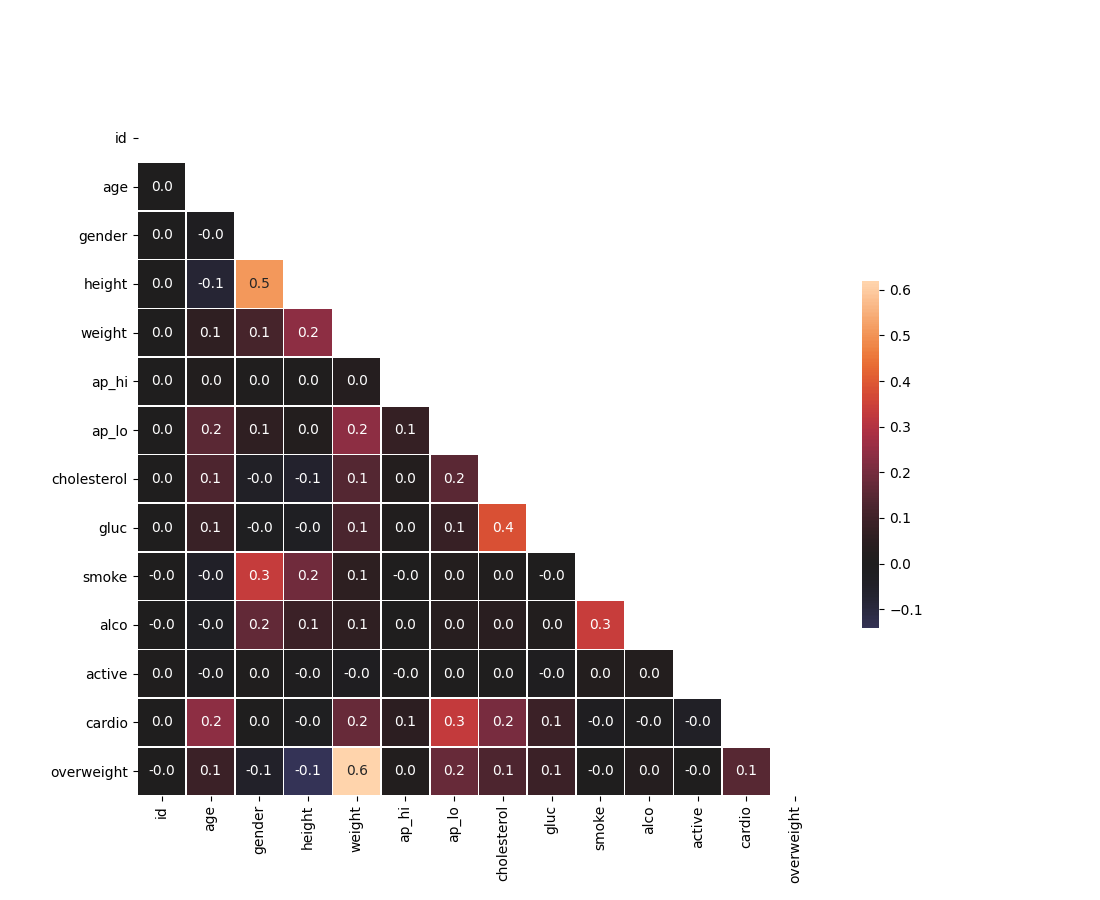
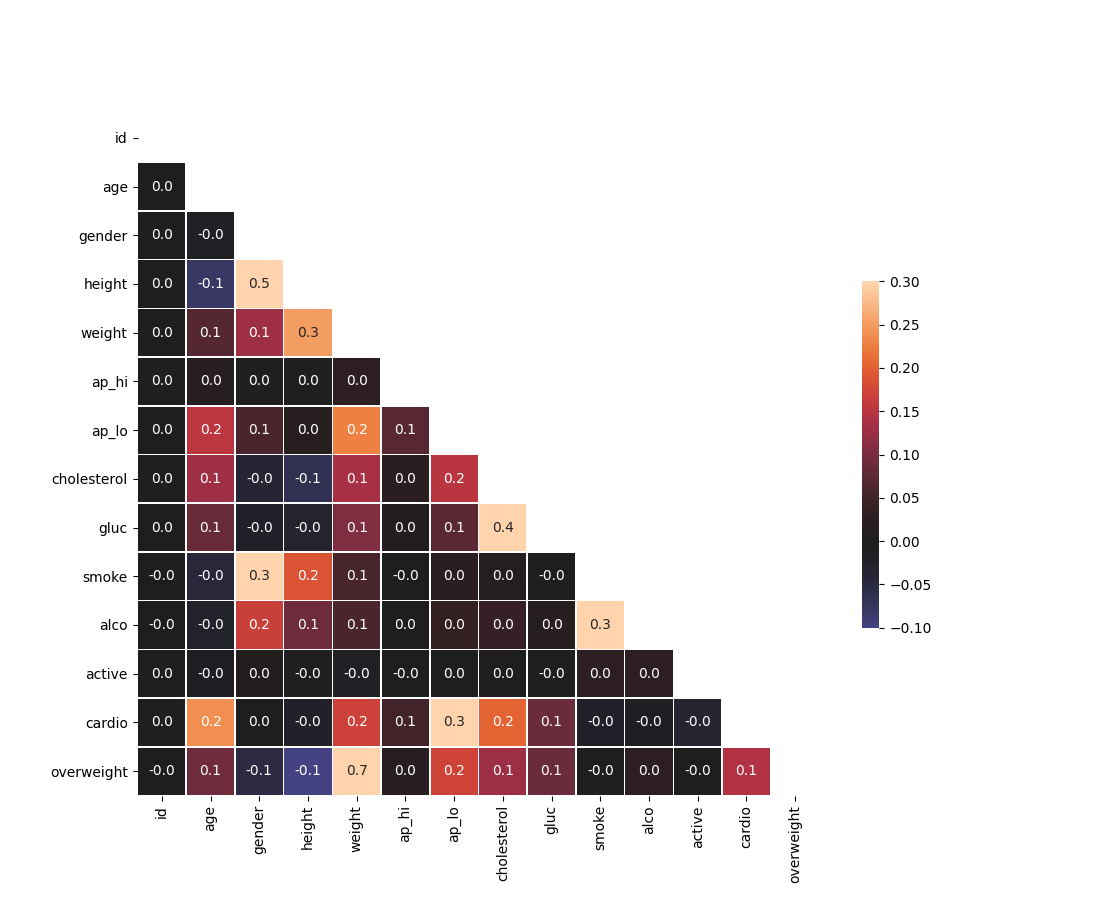
Final version

diff --git a/medical_data_visualizer.py b/medical_data_visualizer.py
@@ -36,13 +36,13 @@ def draw_cat_plot():
 # Draw Heat Map
 def draw_heat_map():
     # Clean the data
-    df_heat = df.loc[(df['ap_lo'] <= df['ap_hi']) & (df['height'] >= df['height'].quantile(0.025)) & (df['height'] <= df['height'].quantile(0.975)) & (df['weight'] >= df['weight'].quantile(0.025)) & (df['height'] <= df['height'].quantile(0.975))]
+    df_heat = df.loc[(df['ap_lo'] <= df['ap_hi']) & (df['height'] >= df['height'].quantile(0.025)) & (df['height'] <= df['height'].quantile(0.975)) & (df['weight'] >= df['weight'].quantile(0.025)) & (df['weight'] <= df['weight'].quantile(0.975))]
 
     # Calculate the correlation matrix
     corr = df_heat.corr()
 
     # Generate a mask for the upper triangle
-    mask = np.triu(np.ones_like(corr, dtype=bool))
+    mask = np.triu(corr)
 
 
     # Set up the matplotlib figure
@@ -50,7 +50,8 @@ def draw_heat_map():
 
     # Draw the heatmap with 'sns.heatmap()'
     sns.heatmap(corr, mask=mask, center=0,  annot=True, fmt = '.1f',
-            square=True, linewidths=.5, cbar_kws={"shrink": .5})
+            square=True, linewidths=.5, cbar_kws={"shrink": .5}, vmin = -0.1
+            , vmax= 0.3)
     
 
     # Do not modify the next two lines
